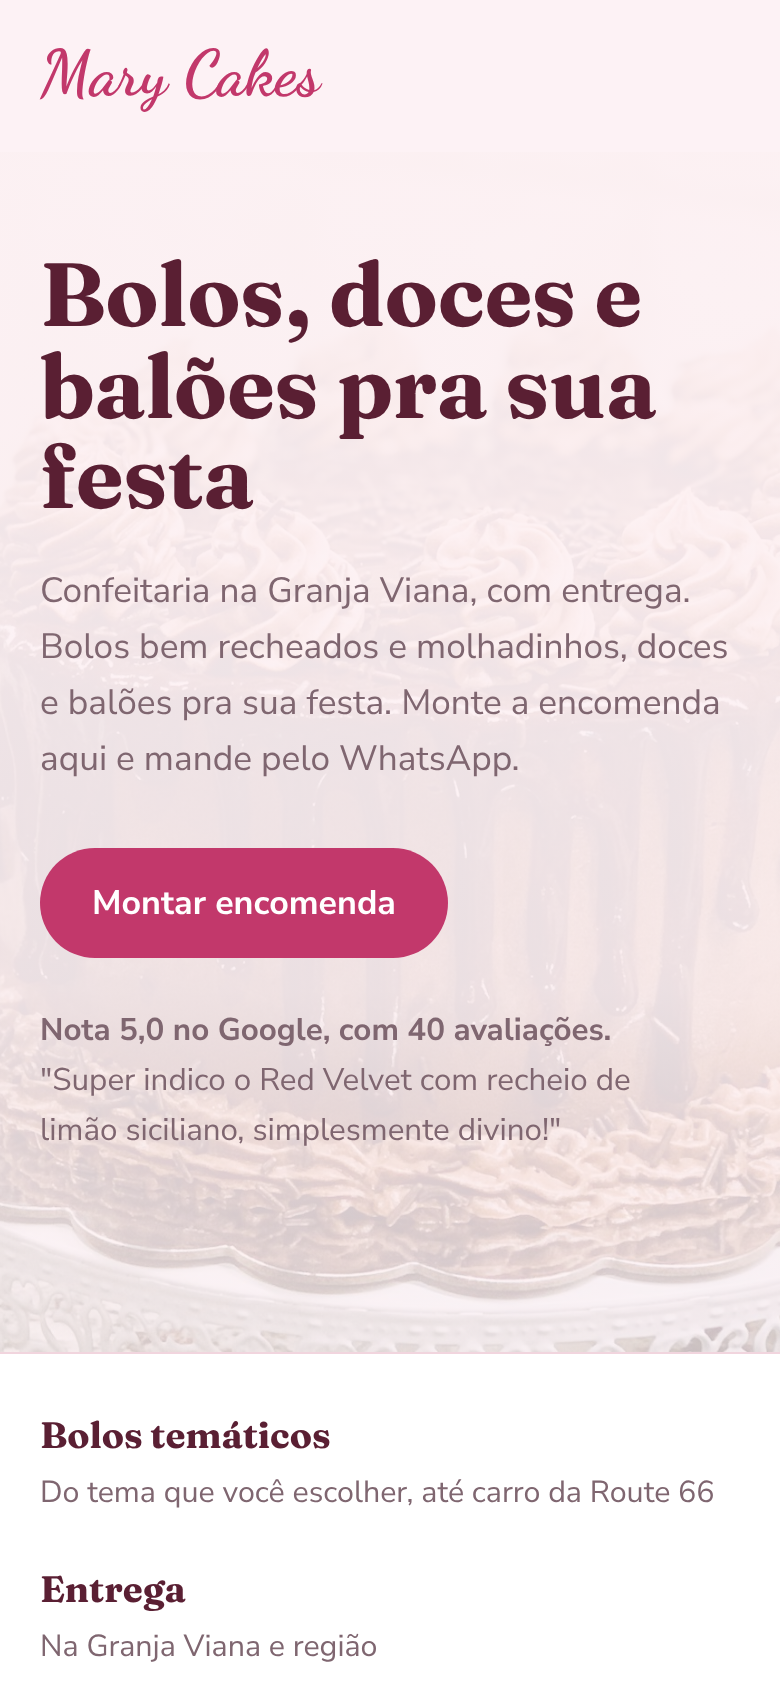
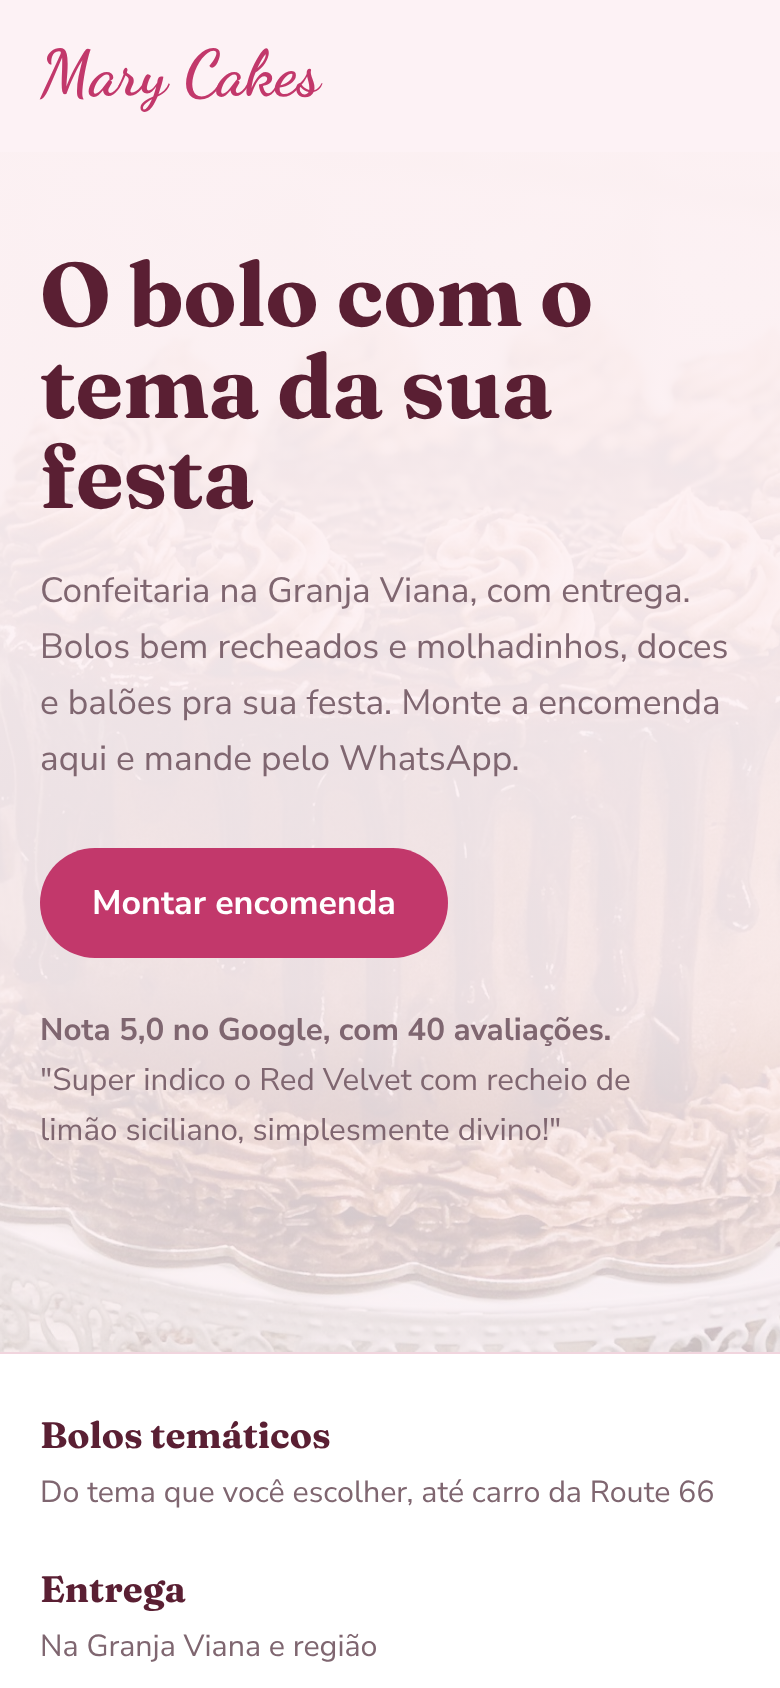
Destaca bolos temáticos na prévia da Mary Cakes
Claude-Session: https://claude.ai/code/session_01VVFaYFBazfBerGM9xmHanA

Changed region(s): [[0.0308, 0.154, 0.8308, 0.2773]]

diff --git a/previas/mary-cakes.html b/previas/mary-cakes.html
@@ -37,6 +37,12 @@ h2{font-family:var(--d);font-weight:700;font-size:clamp(2.2rem,4.6vw,3.2rem);lin
 .qtd output{min-width:1.5ch;text-align:center;font-variant-numeric:tabular-nums}
 .total{display:flex;justify-content:space-between;align-items:center;flex-wrap:wrap;gap:16px;max-width:760px;margin-top:26px}
 .total strong{font-family:var(--d);font-size:1.6rem}
+.temas{background:#fff;border-bottom:1px solid var(--linha)}
+.chips{display:flex;flex-wrap:wrap;gap:10px;margin-bottom:28px}
+.chips span{border:1px solid var(--caramelo);color:var(--chocolate);background:var(--glace);padding:8px 16px;border-radius:999px;font-weight:600}
+.fotos{display:grid;grid-template-columns:repeat(4,1fr);gap:14px}
+.fotos div{aspect-ratio:4/5;border-radius:18px;background:repeating-linear-gradient(135deg,#f8e3ea 0 16px,#fbecf1 16px 32px);display:grid;place-items:center;text-align:center;color:var(--cinza);font-size:.9rem;padding:10px}
+@media (max-width:760px){.fotos{grid-template-columns:1fr 1fr}}
 .historia{background:var(--chocolate);color:var(--glace)}
 .historia .in{display:grid;grid-template-columns:1fr 1fr;gap:50px;align-items:center}
 .historia p{color:#e2cfc3}
@@ -52,7 +58,7 @@ footer .in{display:flex;justify-content:space-between;flex-wrap:wrap;gap:16px;pa
 
 <section class="hero" style="padding:0"><div class="in">
   <div>
-    <h1>Bolos, doces e balões pra sua festa</h1>
+    <h1>O bolo com o tema da sua festa</h1>
     <p>Confeitaria na Granja Viana, com entrega. Bolos bem recheados e molhadinhos, doces e balões pra sua festa. Monte a encomenda aqui e mande pelo WhatsApp.</p>
     <a class="btn" href="#cardapio">Montar encomenda</a>
     <p style="margin:24px 0 0;font-size:.98rem"><b>Nota 5,0 no Google, com 40 avaliações.</b><br>"Super indico o Red Velvet com recheio de limão siciliano, simplesmente divino!"</p>
@@ -65,11 +71,18 @@ footer .in{display:flex;justify-content:space-between;flex-wrap:wrap;gap:16px;pa
   <div><b>Festa completa</b><span>Bolo, doces e balões no mesmo pedido</span></div>
 </div></div>
 
+<section class="temas"><div class="in">
+  <h2>Temas que já saíram daqui</h2>
+  <p class="sub">Conta o tema da festa e o nome do aniversariante. A gente monta o bolo do jeito que você imaginou.</p>
+  <div class="chips"><span>Minecraft</span><span>Harry Potter</span><span>Route 66</span><span>Unicórnio e arco-íris</span><span>Futebol</span><span>Chá de bebê</span><span>Morango fresco</span></div>
+  <div class="fotos"><div>Foto do bolo Minecraft</div><div>Foto do bolo Harry Potter</div><div>Foto do bolo de unicórnio</div><div>Foto do bolo de morango</div></div>
+</div></section>
+
 <section id="cardapio"><div class="in">
   <h2>Cardápio de encomendas</h2>
   <p class="sub">Escolha a quantidade e o pedido vai pronto pro WhatsApp.</p>
   <div class="itens" id="itens">
-    <div class="item" data-n="Bolo de chocolate (1 kg)" data-p="95"><div><b>Bolo de chocolate</b><small>1 kg, serve 10 pessoas</small></div><span class="preco">R$ 95</span><div class="qtd"><button type="button" aria-label="Menos">−</button><output>0</output><button type="button" aria-label="Mais">+</button></div></div>
+    <div class="item" data-n="Bolo temático (1 kg)" data-p="120"><div><b>Bolo temático</b><small>1 kg, decorado com o tema da festa</small></div><span class="preco">R$ 120</span><div class="qtd"><button type="button" aria-label="Menos">−</button><output>0</output><button type="button" aria-label="Mais">+</button></div></div>
     <div class="item" data-n="Red Velvet com limão siciliano (1 kg)" data-p="110"><div><b>Red Velvet com limão siciliano</b><small>1 kg, o mais elogiado pelos clientes</small></div><span class="preco">R$ 110</span><div class="qtd"><button type="button" aria-label="Menos">−</button><output>0</output><button type="button" aria-label="Mais">+</button></div></div>
     <div class="item" data-n="Brigadeiro gourmet (cento)" data-p="160"><div><b>Brigadeiro gourmet</b><small>Cento, sabores variados</small></div><span class="preco">R$ 160</span><div class="qtd"><button type="button" aria-label="Menos">−</button><output>0</output><button type="button" aria-label="Mais">+</button></div></div>
     <div class="item" data-n="Bolo no pote" data-p="14"><div><b>Bolo no pote</b><small>Ninho com Nutella ou prestígio</small></div><span class="preco">R$ 14</span><div class="qtd"><button type="button" aria-label="Menos">−</button><output>0</output><button type="button" aria-label="Mais">+</button></div></div>
